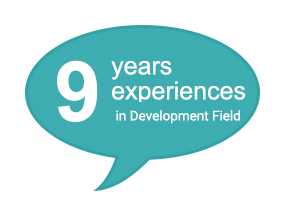
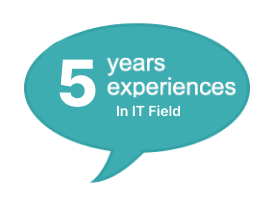
update portfolio

diff --git a/index.html b/index.html
@@ -11,7 +11,8 @@
     <title>KhinMohMohSoe - Resume (DevOps Engineer)</title>
     <meta name="keywords" content="Resume, DevOps Engineer, KhinMohMohSoe, IT Professional" />
     <meta name="description"
-        content="Hello, I'm John Doe. This is my latest resume, showcasing my experience and skills as a DevOps Engineer. Feel free to contact me. Thank you for visiting :).">
+        content="Hello, I'm Khin Moh Moh Soe. This is my latest resume, showcasing my experience and skills as a DevOps Engineer and Network Engineer. 
+                Feel free to contact me. Thank you for visiting :).">
 
     <link rel="stylesheet" href="css/resume.css?v=1.0.0" />
     <link rel="stylesheet" href="css/animate.css" />
@@ -34,11 +35,17 @@
                         <h1 class="name">Khin Moh Moh Soe</h1>
                         <h4>DevOps Engineer</h4>
                         <div class="contact-wrapper">
-                            <div class="content"><a href="https://www.sudomask.dev" target="_blank"> <i
-                                        class="fa fa-laptop"></i><strong> https://www.sudomask.dev</strong></a></div>
-                            <div class="content"><a href="mailto:kmohsoe@gmail.coom"> <i class="fa fa-envelope"></i>
-                                    kmohsoe@gmail.com</a></div>
-                            <div class="content"><i class="fa fa-mobile"></i>(+81)7024422442</div>
+                            <div class="content">
+                                <a href="https://www.linkedin.com/in/khin-moh-moh-soe/" target="_blank">
+                                    <i class="fa fa-linkedin fa-lg"></i><strong>
+                                </a>
+                                <a href="mailto:kmohsoe@gmail.coom">
+                                    <i class="fa fa-envelope fa-lg"></i>
+                                </a>
+                                <a href="tel:+8107024422442 ">
+                                    <i class="fa fa-mobile fa-lg"></i>
+                                </a>
+                            </div>
                             <div class="clearfix"></div>
                         </div>
                     </div>
@@ -56,41 +63,42 @@
                 <div class="content-section fadeInLeft">
                     <div class="leftcontent-wrapper">
                         <h4 class="content-title">
-                            Working <br />Experiences <br /><small>(5 Years Experiences)</small>
+                            Working <br />Experiences <br /><small>( 5 Years Experiences )</small>
                         </h4>
                     </div>
 
                     <div class="rightcontent-wrapper">
                         <div class="devops-experiences">
-                            <h4><b>DevOps Engineering </b> - 5 years experiences </h4>
+                            <h4><b>Network System & Cloud Engineer </b> - 5 years experiences </h4>
                             <ul class="two-columns-list">
                                 <li>
-                                    <div class="years">2020 - Current</div>
-                                    <div class="company-name"><strong>DevOps Engineer</strong> at <a
-                                            href="https://example.com/">Example Corp</a></div>
+                                    <div class="years">2022 - Current<br/><small>(2 years - 7 months)</small></div>
+                                    <div class="company-name">
+                                        <strong>ICT Start Group Myanmar Co.,Ltd</strong>
+                                       at <a href="#">Japan Branch</a><br/>
+                                       <span>
+                                            works as a Contract Employee at <a href="https://www.qac.jp/">キューエンドエー株式会社</a>
+                                       </span>
+                                    </div>
                                     <div class="clearfix"></div>
                                 </li>
                                 <li>
-                                    <div class="years">2018 - 2020<br /><small>(2 years - 3 months)</small></div>
-                                    <div class="company-name"><strong>Automation Specialist</strong> at <a
-                                            href="http://automationco.com">Automation Co</a> </div>
+                                    <div class="years">2019 - 2022<br /><small>(2 years - 4 months)</small></div>
+                                    <div class="company-name">
+                                        <strong>ICT Star Group Myanmar Co.,Ltd</strong>
+                                        at <a href="#">Myanmar Branch</a>
+                                    </div>
                                     <div class="clearfix"></div>
                                 </li>
                             </ul>
                         </div>
                         <div class="it-experiences">
-                            <h4><b>IT Operations</b> - 3 years experiences</h4>
+                            <h4><b>IT Operations </b> - 6 months experiences</h4>
                             <ul class="two-columns-list">
                                 <li>
-                                    <div class="years">2015 - 2018</div>
-                                    <div class="company-name"><strong>Systems Administrator</strong> at <a
-                                            href="https://techsolution.com/">Tech Solutions</a></div>
-                                    <div class="clearfix"></div>
-                                </li>
-                                <li>
-                                    <div class="years">2014 - 2015</div>
-                                    <div class="company-name"><strong>Network Support Specialist</strong> at <a
-                                            href="https://networkpros.com/">Network Pros</a></div>
+                                    <div class="years">2017 - 2018</div>
+                                    <div class="company-name"><strong>IT Operation Support</strong> at <a
+                                            href="#">TawWin Hospital</a></div>
                                     <div class="clearfix"></div>
                                 </li>
                             </ul>
@@ -112,7 +120,7 @@
                             &nbsp; &nbsp; &nbsp; I am a skilled DevOps engineer with expertise in automation,
                             continuous integration, and cloud infrastructure management. I have hands-on experience
                             with tools like Jenkins, Docker, Kubernetes, Ansible, and Terraform. Proficient in scripting
-                            languages such as Python and Bash.
+                            languages such as Bash & Programming Knowledge.
                         </p>
                         <ul class="skill-metrics">
                             <li>
@@ -146,9 +154,25 @@
                                 </div>
                             </li>
                         </ul>
-                        <br />
-                        <h4>Projects I've Worked On</h4>
-                        <ul class="experience-list">
+                        <br /><br />
+                        <h4>I got Certified On </h4>
+                        <ul class="certification-list">
+                            <li>
+                                <a href="# target="_blank" class="img-wrapper">
+                                    <img src="img/cert/AWS-Solutions-Architect.png" />
+                                </a>
+                                <a href="# target="_blank">AWS Solutions Architect</a>
+                            </li>
+                            <li>
+                                <a href="#" target="_blank" class="img-wrapper">
+                                    <img class="cka-certified" src="img/cert/cka-certified.png" />
+                                </a>
+                                <a href="# target="_blank">Kubernetes Administrator</a>
+                            </li>
+                        </ul>
+                        <br/><br />
+                        <h4 hidden>Projects I've Worked On</h4>
+                        <ul class="experience-list" style="display: none;">
                             <li>
                                 <a href="https://exampleproject1.com" target="_blank" class="img-wrapper">
                                     <img src="img/leetdev.png" />
@@ -190,7 +214,7 @@
                             </li>
                             <li>
                                 <div class="pull-left language">Japanese</div>
-                                <div class="pull-left language"><small>Read/Write</small> - <strong>Basic</strong></div>
+                                <div class="pull-left language"><small>Read/Write</small> - <strong>Intermediate</strong></div>
                                 <div class="pull-left language"><small>Speaking</small> - <strong>Conversational</strong></div>
                                 <div class="clearfix"></div>
                             </li>
@@ -295,5 +319,4 @@
     <br /><br /><br /><br />
     <br /><br /><br /><br />
 </body>
-
 </html>

diff --git a/css/resume.css b/css/resume.css
@@ -3,6 +3,9 @@
 *{
 	font-family	: 'Raleway',FontAwesome, sans-serif;
 	}
+small{
+	font-family: FontAwesome, sans-serif;
+}
 .clearfix{
 	clear		: both;
 	float		: none !important;
@@ -180,7 +183,7 @@
 	}
 .experience-list li{
 	display		: inline-block;
-	margin		: 20px 20px 0 0;	
+	margin		: 20px 20px 0 0;
 	}
 .experience-list li a{
 	display		: block;
@@ -214,10 +217,49 @@
 	-ms-transform: scale(1.4) rotate(10deg);
 	transform: scale(1.4) rotate(10deg);
 	}
-
+.certification-list{
+	padding		: 0;
+	margin		: 0;
+	}
+.certification-list li{
+	display		: inline-block;
+	margin		: 20px 20px 0 0;
+}
+.certification-list li a{
+	display		: block;
+	text-align	: center;
+	font-size	: 12px;
+	color		: #000;
+	font-weight	: 700;
+}
+.certification-list li .img-wrapper,
+.certification-list li a img{
+	-webkit-transition: all 400ms ease;
+	-moz-transition: all 400ms ease;
+	-ms-transition: all 400ms ease;
+	-o-transition: all 400ms ease;
+	transition: all 400ms ease;
+}
+.certification-list li .img-wrapper{
+	overflow	: hidden;
+	display		: block;
+	border-radius: 5px;
+	margin-bottom :20px;
+}
+.certification-list li a img.cka-certified{
+	width: 150px;
+	height: auto;
+}
+.certification-list li a:hover img{
+	-moz-transform: scale(1.4) rotate(10deg);
+	-webkit-transform: scale(1.4) rotate(10deg);
+	-o-transform: scale(1.4) rotate(10deg);
+	-ms-transform: scale(1.4) rotate(10deg);
+	transform: scale(1.4) rotate(10deg);
+}
 @media print {
 	/* body {transform: scale(.75);} */
-	body { 
+	body {
 		/* padding: 70px 100px 30px 70px; */
 		padding-top: 30px;
 		padding-right: 70px;
